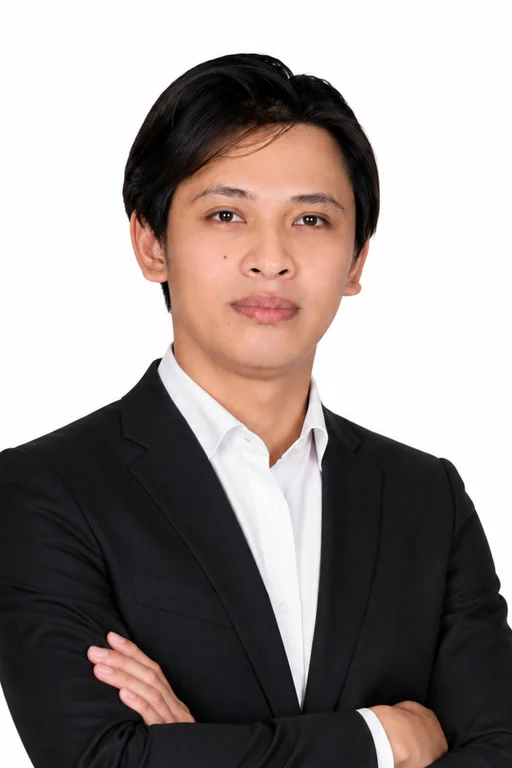
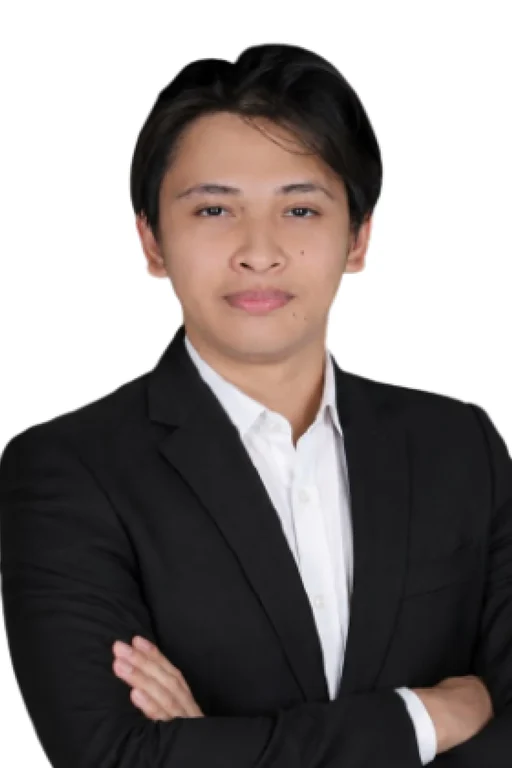
Foto Yahya baru, dipotong berjangkar kepala
Sumbernya 4971x6144 (rasio 0,8091), bukan 2:3 seperti keenam foto lain, jadi
skrip penyiap semula melewatinya. Dipindai dari piksel non-putih, subjeknya
membentang 4806 px dari 4971 — hampir selebar kanvas — sehingga jendela 2:3
setinggi penuh (4096) memang harus membuang 710 px. Yang hilang lengan
bersedekap bagian luar; pada keenam foto lama lengan luar juga sudah terpotong.

Aturannya karena itu bukan "tidak ada yang terpotong" melainkan "kepala tidak
boleh tersentuh": jendela dipusatkan pada titik tengah kepala, diukur dari 22%
teratas subjek, dan skrip berhenti kalau kepalanya tidak muat.

diff --git a/download.html b/download.html
@@ -120,7 +120,7 @@ body{background:var(--paper)}
       <div><div class="k">Berkas</div><div class="v">6</div></div>
       <div><div class="k">Total unduhan</div><div class="v g">18088 KB</div></div>
       <div><div class="k">Android</div><div class="v">7.0+</div></div>
-      <div><div class="k">Dibangun</div><div class="v" data-dibangun>12 Agustus 2026</div></div>
+      <div><div class="k">Dibangun</div><div class="v" data-dibangun>13 Agustus 2026</div></div>
     </div>
   </div>
 </section>
@@ -232,7 +232,7 @@ body{background:var(--paper)}
         <p class="und-sebab" data-sebab><svg viewBox="0 0 24 24" fill="none" stroke="currentColor" stroke-width="2" stroke-linecap="round"><circle cx="12" cy="12" r="9"/><path d="M12 8v5M12 16h.01"/></svg><span>Berkasnya sudah jadi, tapi belum diunggah ke tautan umum. Pakai versi web dulu.</span></p>
         <div class="und-sidik">
           <div class="und-sidik__k">SHA-256 berkas<button class="und-salin" type="button" data-salin>Salin</button></div>
-          <div class="und-sidik__v" data-sha>af4d8612c23977cd5d45d45f1c278d08f9d0c48b7d3b73e471811aa907ec1e36</div>
+          <div class="und-sidik__v" data-sha>c42ee0259282cbf173e9dc031ca14ece7fdec38fe7639d2048c3437a23505eaf</div>
         </div>
       </div>
 

diff --git a/assets/js/download-apk.js b/assets/js/download-apk.js
@@ -70,7 +70,7 @@
 
   window.GLYIV_APK = {
     /* Tanggal berkas APK ini dibangun. Ditampilkan di layar. */
-    dibangun: "2026-08-12",
+    dibangun: "2026-08-13",
 
     /* ⛔ SAKLAR KEJUJURAN — jangan dihapus, dan jangan disetel `true` sambil
        menebak.
